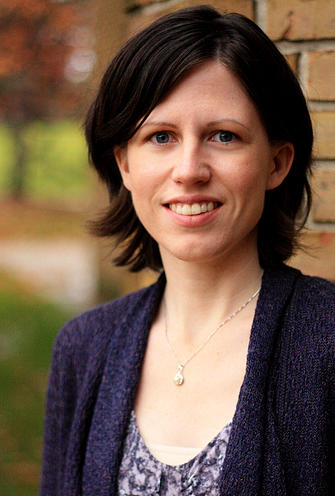
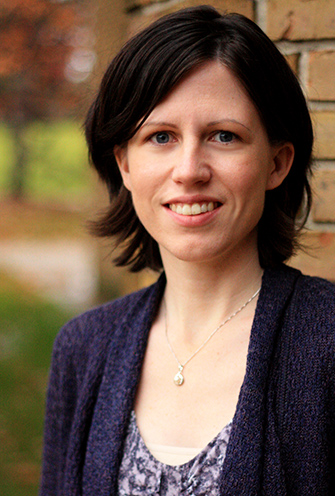
fix image sizes

Changed region(s): [[0.7164, 0.756, 0.7463, 0.7863], [0.597, 0.998, 0.6269, 1.0]]

diff --git a/index.html b/index.html
@@ -246,8 +246,7 @@
 <div class="content tab-content">
 	<div role="tabpanel" class="tab-pane fade clearfix" id="home">
 		<div><div class="row">
-			<img class="col-sm-5 img-responsive" src="img/260.jpg">
-
+			<img class="col-sm-4 img-responsive" src="img/260.jpg">
 			<div class="col-sm-7">
 				<h2>About Me</h2>
 				<p>
